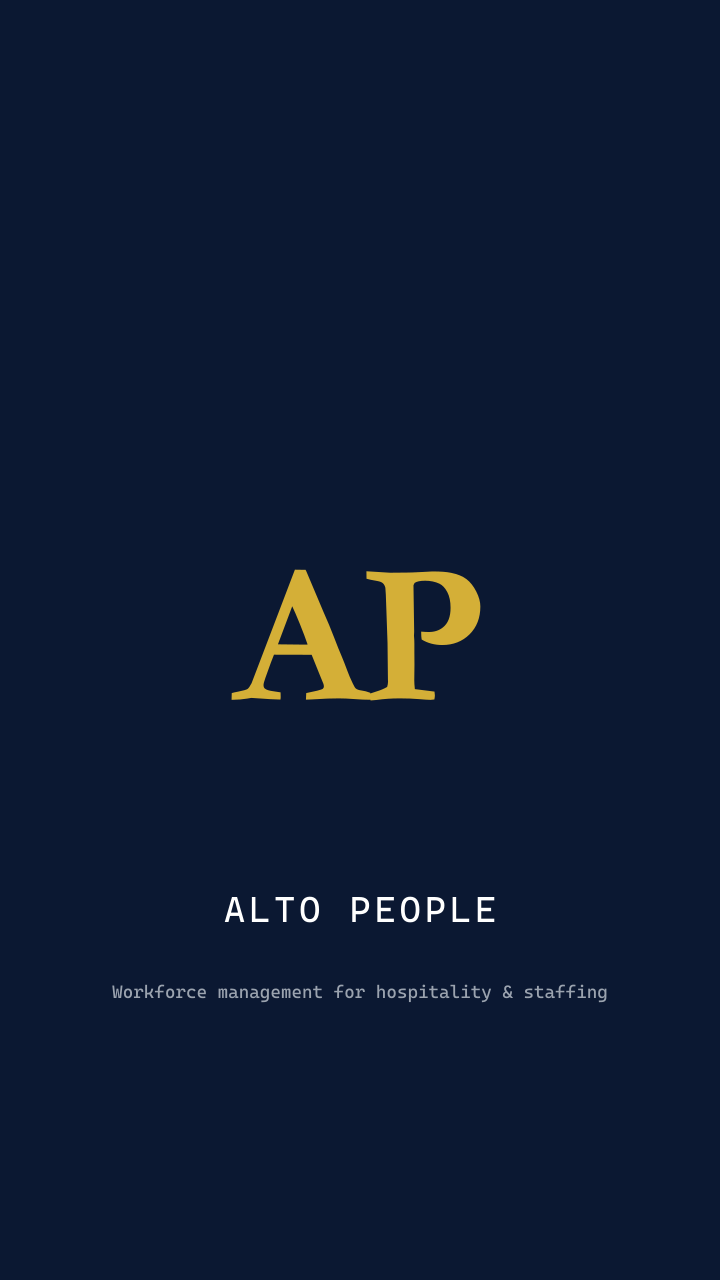
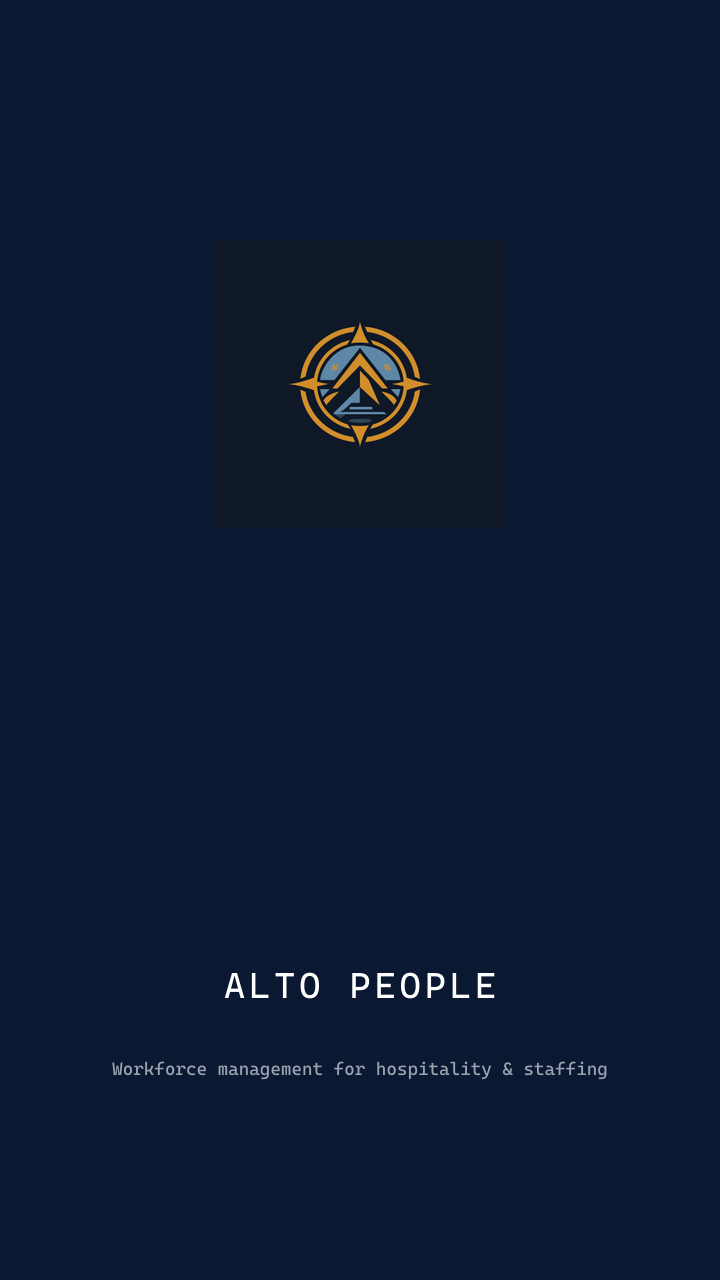
Switch brand mark to compass-rose / gold A-peak emblem
Replaces the AP-monogram placeholder with the real Alto People brand
mark — navy circular compass with the gold "A" mountain/sail inside.
Source PNG (logo-source.jpg) drives every rasterized variant via
build-pwa-icons.mjs; re-run that script when the logo changes.

What now uses the new mark:
- PWA tiles (icon-96 / icon-192 / icon-512 / apple-touch-icon)
- Install dialog screenshots (screenshot-wide, screenshot-narrow)
- 32px favicon for browser tabs
- Sidebar header and mobile Topbar (already used <Logo>, autopicked up
  the new logo.png)
- AcceptInvite, HotlinePage, KioskPage (same — autopicked up)
- Login.tsx — adds <Logo size="xl"> above the wordmark
- Install.tsx — replaces the AP monogram circle with <Logo size="xl">

Service-worker cache bumped v4 → v5 so already-installed users get the
new tiles on their next visit (the activate handler evicts v4).

Old icon-192.svg / icon-512.svg deleted — they baked in the AP
monogram via inline text and would have rotted otherwise.

diff --git a/apps/web/src/pages/Login.tsx b/apps/web/src/pages/Login.tsx
@@ -3,6 +3,7 @@ import { useNavigate, useLocation } from 'react-router-dom';
 import { Lock, Mail, ShieldCheck } from 'lucide-react';
 import { useAuth } from '@/lib/auth';
 import { ApiError, NetworkError } from '@/lib/api';
+import { Logo } from '@/components/Logo';
 import { Button } from '@/components/ui/Button';
 import { Input } from '@/components/ui/Input';
 import { Label, FormHint } from '@/components/ui/Label';
@@ -51,6 +52,7 @@ export function Login() {
     <div className="min-h-screen flex items-center justify-center px-4 py-12 bg-login-aurora">
       <div className="w-full max-w-md">
         <div className="text-center mb-8 animate-fade-in">
+          <Logo size="xl" className="mx-auto mb-4 rounded-xl" alt="Alto People" />
           <h1 className="font-display text-5xl md:text-6xl text-gold mb-2 leading-none">
             Alto People
           </h1>

diff --git a/apps/web/src/pages/Install.tsx b/apps/web/src/pages/Install.tsx
@@ -1,6 +1,7 @@
 import { useEffect, useState } from 'react';
 import { Link } from 'react-router-dom';
 import { Apple, Smartphone, Share, MoreVertical, Plus, Download, ChevronRight, ShieldCheck } from 'lucide-react';
+import { Logo } from '@/components/Logo';
 
 type Platform = 'ios' | 'android' | 'desktop';
 
@@ -55,9 +56,7 @@ export function Install() {
   return (
     <Page>
       <header className="text-center mb-8">
-        <div className="inline-flex h-16 w-16 items-center justify-center rounded-2xl bg-navy border border-gold/40 mb-4">
-          <span className="font-serif text-3xl text-gold tracking-tight">AP</span>
-        </div>
+        <Logo size="xl" className="mx-auto mb-4 rounded-2xl" alt="Alto People" />
         <h1 className="text-2xl sm:text-3xl font-medium text-white mb-2">
           Install Alto People
         </h1>

diff --git a/apps/web/index.html b/apps/web/index.html
@@ -6,6 +6,7 @@
     <meta name="theme-color" content="#0B1832" />
     <meta name="description" content="Alto People — workforce management HR platform" />
     <link rel="manifest" href="/manifest.webmanifest" />
+    <link rel="icon" type="image/png" sizes="32x32" href="/favicon-32.png" />
     <link rel="icon" type="image/png" sizes="192x192" href="/icon-192.png" />
     <link rel="icon" type="image/png" sizes="512x512" href="/icon-512.png" />
     <link rel="apple-touch-icon" sizes="180x180" href="/apple-touch-icon.png" />

diff --git a/apps/web/public/sw.js b/apps/web/public/sw.js
@@ -12,7 +12,7 @@
 // Bumped when the SHELL list changes so the activate handler evicts the
 // previous shell cache instead of leaving stale entries (the now-broken
 // 125x91 logo.png) lying around indefinitely.
-const CACHE_NAME = 'alto-shell-v4';
+const CACHE_NAME = 'alto-shell-v5';
 const SHELL = [
   '/',
   '/index.html',
